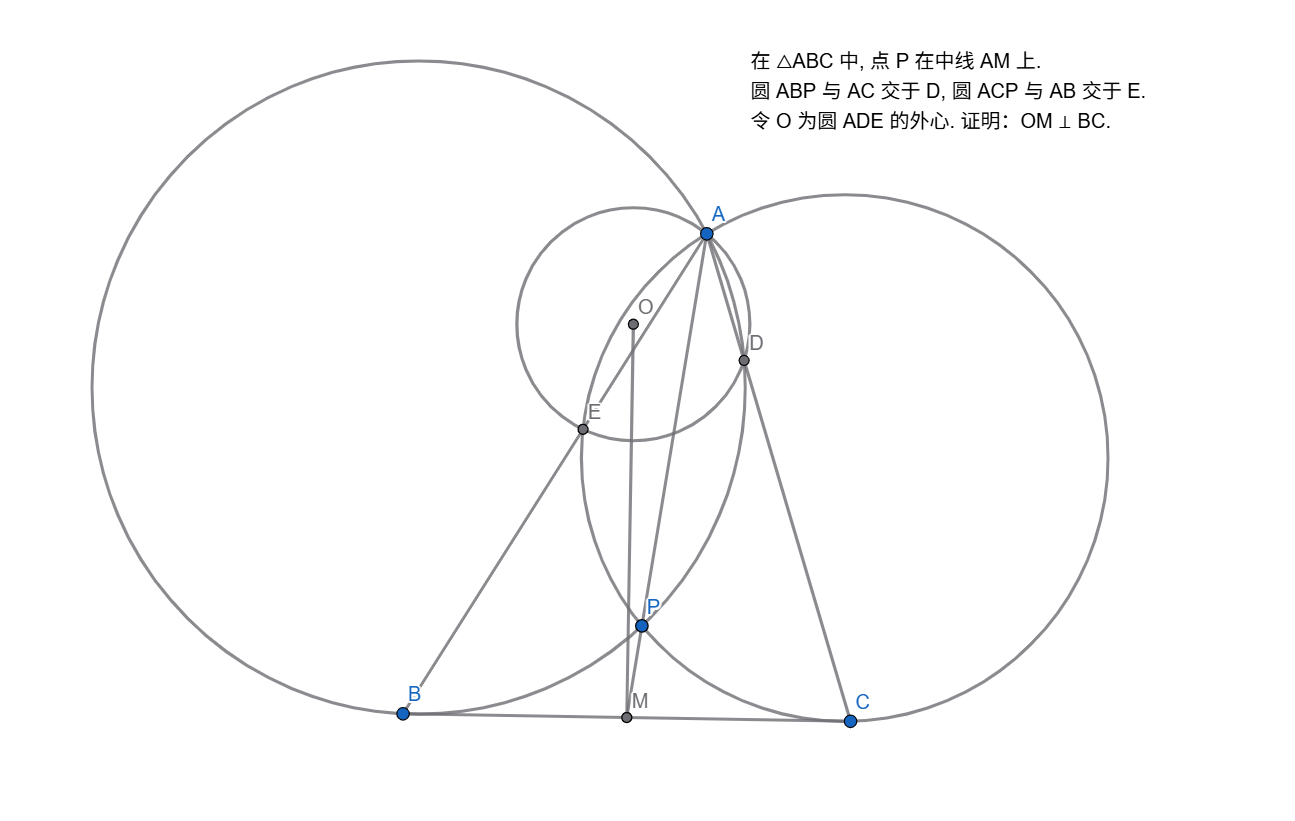
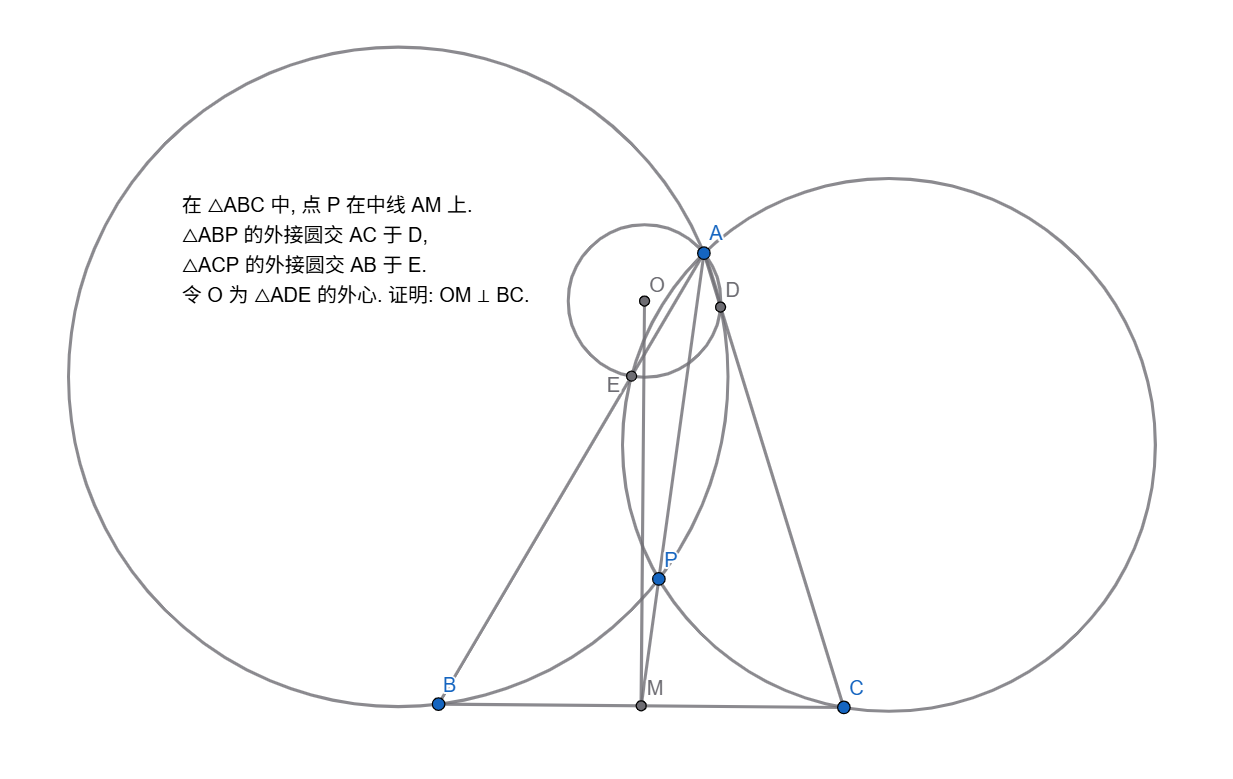
Site updated: 2025-09-28 22:11:21

diff --git a/2025/09/28/Geometry/index.html b/2025/09/28/Geometry/index.html
@@ -26,7 +26,7 @@
 <meta property="og:locale" content="en_US">
 <meta property="og:image" content="https://1234567890regis.github.io/images/icon.ico">
 <meta property="article:published_time" content="2025-09-28T04:16:15.000Z">
-<meta property="article:modified_time" content="2025-09-28T10:46:00.774Z">
+<meta property="article:modified_time" content="2025-09-28T14:10:10.828Z">
 <meta property="article:author" content="1234567890regis">
 <meta name="twitter:card" content="summary">
 <meta name="twitter:image" content="https://1234567890regis.github.io/images/icon.ico">
@@ -139,7 +139,7 @@
                         <i class="fa fa-edit"></i> 
                         
                         
-                            ~7.34K
+                            ~8.36K
                         
                         字
                     </li>
@@ -156,7 +156,7 @@
             
             <div id="expire-alert" class="alert alert-warning hidden" role="alert">
                 <div class="icon"><i class="fa fa-warning"></i></div>
-                <div class="text"><p>本文最后编辑于 <time datetime="1759056360774"></time> 前，其中的内容可能需要更新。</p></div>
+                <div class="text"><p>本文最后编辑于 <time datetime="1759068610828"></time> 前，其中的内容可能需要更新。</p></div>
             </div>
             
             
@@ -349,8 +349,29 @@
 <p>所以 $H=H’$, 因此 $∠AEG+∠AFG=∠AEC+∠AFB=∠AHB+∠AH’C=\pi$, 即 $AEFG$ 共圆.</p>
 <p>证毕.</p>
 <h1 id="Geometry-14"><a href="#Geometry-14" class="headerlink" title="Geometry 14"></a>Geometry 14</h1><p><img src="../../../../images/Geometry/14.PNG" alt=""></p>
-<h2 id="Problem-13"><a href="#Problem-13" class="headerlink" title="Problem:"></a>Problem:</h2><h2 id="Solution-13"><a href="#Solution-13" class="headerlink" title="Solution:"></a>Solution:</h2><h1 id="Geometry-15"><a href="#Geometry-15" class="headerlink" title="Geometry 15"></a>Geometry 15</h1><p><img src="../../../../images/Geometry/15.PNG" alt=""></p>
-<h2 id="Problem-14"><a href="#Problem-14" class="headerlink" title="Problem:"></a>Problem:</h2><h2 id="Solution-14"><a href="#Solution-14" class="headerlink" title="Solution:"></a>Solution:</h2></div>
+<h2 id="Problem-13"><a href="#Problem-13" class="headerlink" title="Problem:"></a>Problem:</h2><p>在 $△ABC$ 中, 点 $P$ 在中线 $AM$ 上. $△ABP$ 的外接圆交 $AC$ 于 $D$, $△ACP$ 的外接圆交 $AB$ 于 $E$. 令 $O$ 为 $△ADE$ 的外心.</p>
+<p>证明: $OM ⊥ BC$.</p>
+<h2 id="Solution-13"><a href="#Solution-13" class="headerlink" title="Solution:"></a>Solution:</h2><p><img src="../../../../images/Geometry/Helper/14.PNG" alt=""></p>
+<p>令直线 $BC$ 交 $△ABP$, $△ACP$ 于 $F, G$.</p>
+<p>原式等价于 $B$ 到圆 $O$ 的幂等于 $C$ 到 $O$ 的幂, 即 $BE \times BA=CD \times CA$, 即:</p>
+<p>$BC \times BG=CB \times CF$, 即等价于 $BG=CF$, 即: $MF=MG$.</p>
+<p>而 $MF \times MB=MA \times MP=MG \times MC$, 所以 $MF=MG$.</p>
+<p>证毕.</p>
+<h1 id="Geometry-15"><a href="#Geometry-15" class="headerlink" title="Geometry 15"></a>Geometry 15</h1><p><img src="../../../../images/Geometry/15.PNG" alt=""></p>
+<h2 id="Problem-14"><a href="#Problem-14" class="headerlink" title="Problem:"></a>Problem:</h2><p>$ABCD$ 是圆 $O$ 的内接四边形, $AC$ 交 $BD$ 于 $P$. 过 $P$ 做任意直线, 交圆 $O$ 于 $E, F$, 交 $ABP$ 的外接圆于 $G$, 交 $ACP$ 的外接圆于 $H$.</p>
+<p>证明: $EG=FH$.</p>
+<h2 id="Solution-14"><a href="#Solution-14" class="headerlink" title="Solution:"></a>Solution:</h2><p><img src="../../../../images/Geometry/Helper/15.PNG" alt=""></p>
+<p>发现以 $P$ 为中心反演后就变成了类似蝴蝶定理的形状, 只不过 $P$ 是随意的.</p>
+<p>这个形状的性质由 Candy’s Theorem (坎迪定理) 描述. </p>
+<p>令 $AB, CD$ 分别交 $EF$ 于 $Q, R$. 则以 $P$ 为反演中心, $P$ 对圆 $O$ 的幂反演, 则:</p>
+<p>$E, F$ 互反, $A, C$ 互反, $B, D$ 互反, 因此 $APB$ 的外接圆反演为 $CD$, $CPD$ 的外接圆反演为 $AB$.</p>
+<p>所以, $G, R$ 互反, $H, Q$ 互反. 由反演的性质, </p>
+<p>$GE=FR \times \frac{r^2}{PR \times PF}, FH=EQ \times \frac{r^2}{PQ \times PE}$,</p>
+<p>其中 $r^2$ 为反演幂的绝对值. 所以, 我们只需要证明: $\frac{FR}{PR \times PF} = \frac{EQ}{PQ \times PE}$.</p>
+<p>由 Candy’s Theorem (坎迪定理), $\frac{1}{PQ}-\frac{1}{PE}=\frac{1}{PR}-\frac{1}{PF}$,</p>
+<p>所以 $\frac{EQ}{PQ \times PE}=\frac{FR}{PR \times PF}$, 即证.</p>
+<p>证毕.</p>
+</div>
         </div>
         
             <div class="kratos-copyright text-center clearfix">
@@ -444,7 +465,7 @@
                     
                 </div>
                 <div class="pull-date">
-                    <time datetime="2025-09-28T10:46:00.774Z" itemprop="dateModified">最后编辑：2025-09-28</time>
+                    <time datetime="2025-09-28T14:10:10.828Z" itemprop="dateModified">最后编辑：2025-09-28</time>
                 </div>
             </div>
         </footer>
